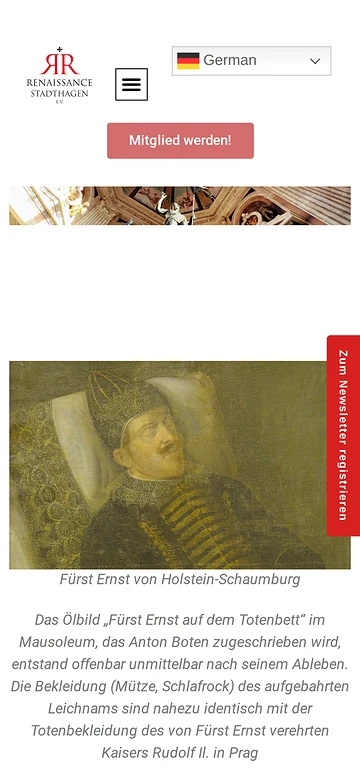
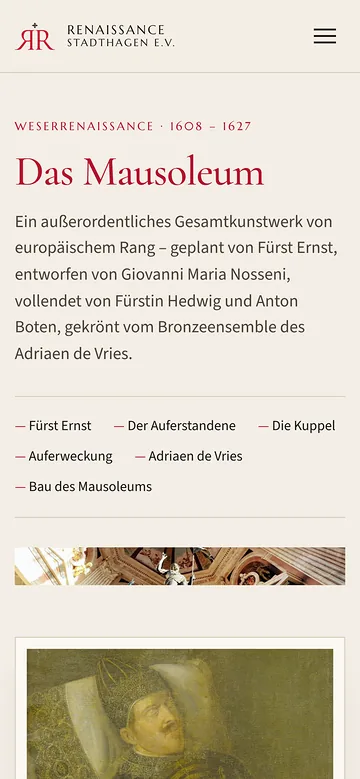
Referenz Renaissanceverein Stadthagen nach Relaunch aktualisiert

diff --git a/src/data/references.ts b/src/data/references.ts
@@ -72,6 +72,39 @@ export interface Reference {
 
 export const references: Reference[] = [
   {
+    slug: "renaissance-stadthagen",
+    category: "websites",
+    domain: "stadthagen-renaissance.de",
+    image: "/images/referenzen/renaissance-stadthagen.jpg",
+    mobileImage: "/images/referenzen/renaissance-stadthagen-mobile",
+    mobileShots: [
+      { image: "/images/referenzen/renaissance-stadthagen-mobile-konzertreihe", label: "Konzertreihe" },
+      { image: "/images/referenzen/renaissance-stadthagen-mobile-das-mausoleum", label: "Das Mausoleum" },
+    ],
+    date: "2026",
+    title: "Renaissanceverein Stadthagen",
+    meta: "Vereins-Website · Mausoleum",
+    liveUrl: "https://www.stadthagen-renaissance.de",
+    featured: true,
+    story: {
+      challenge:
+        "Der Renaissance Stadthagen e.V. betreut das Mausoleum an der St.-Martini-Kirche mit dem Bronzeensemble von Adriaen de Vries. Dazu organisiert er Führungen, eine Konzertreihe und einen offenen Stammtisch. Die bisherige Website war über die Jahre gewachsen, aufwendig zu pflegen und abzusichern. Auch ihr Erscheinungsbild passte nicht mehr zu einem Kunstwerk von europäischem Rang.",
+      solution:
+        "Für den Neustart haben wir ein ruhiges, museales Design entwickelt: heller Papierton, das Rot aus dem Vereinslogo und eine klassische Schrift, die zur Renaissance passt. Ganz oben auf der Startseite steht, was Besucher zuerst wissen wollen: Öffnungszeiten, Sonderöffnungstage, Eintritt und Treffpunkt. Abgelaufene Termine verschwinden von selbst. Die Seiten zum Mausoleum und zu Adriaen de Vries führen Kapitel für Kapitel durch Geschichte und Kunstwerk. Auf der Seite zur Konzertreihe stehen Programm und Kartenverkauf; der Ticketshop lädt erst, wenn man ihn öffnet. Der Mitgliedsantrag läuft direkt online, mit Prüfung der Bankverbindung und automatischer Eingangsbestätigung. Von der Startseite geht es außerdem zur Renaissance-Rallye, die wir ebenfalls gebaut haben. Die Seite kommt ohne Cookies aus und lässt sich per Klick auf Englisch, Niederländisch, Dänisch und Schwedisch lesen. Alle alten Adressen und Dokumente bleiben erreichbar.",
+      outcome:
+        "Seit Oktober 2026 ist der neue Auftritt online. Die Pflege liegt jetzt bei uns: Der Verein schickt Änderungen einfach per E-Mail.",
+      scope: [
+        "Relaunch & Webdesign",
+        "Besucherinfos mit Sonderöffnungszeiten",
+        "Konzertreihe & Tickets",
+        "Online-Mitgliedsantrag",
+        "Mehrsprachig lesbar",
+        "Umzug mit Weiterleitungen",
+      ],
+      liveUrl: "https://www.stadthagen-renaissance.de",
+    },
+  },
+  {
     slug: "kultur-stadthagen",
     category: "websites",
     domain: "kultur-stadthagen.de",
@@ -745,35 +778,6 @@ export const references: Reference[] = [
         "Kurstermine & Anfrage",
       ],
       liveUrl: "https://healthy-horizons.de",
-    },
-  },
-  {
-    slug: "renaissance-stadthagen",
-    category: "websites",
-    domain: "stadthagen-renaissance.de",
-    image: "/images/referenzen/renaissance-stadthagen.jpg",
-    mobileImage: "/images/referenzen/renaissance-stadthagen-mobile",
-    mobileShots: [
-      { image: "/images/referenzen/renaissance-stadthagen-mobile-konzertreihe", label: "Konzertreihe" },
-      { image: "/images/referenzen/renaissance-stadthagen-mobile-das-mausoleum", label: "Das Mausoleum" },
-    ],
-    date: "2025",
-    title: "Renaissanceverein Stadthagen",
-    meta: "Vereins-Website",
-    liveUrl: "https://www.stadthagen-renaissance.de",
-    featured: true,
-    story: {
-      challenge:
-        "Der Renaissance Stadthagen e.V. kümmert sich um das Mausoleum von Fürst Ernst und organisiert Führungen, eine Konzertreihe und einen offenen Stammtisch. Besucher interessiert vor allem, wann geöffnet ist, was eine Führung kostet und wann das nächste Konzert stattfindet. Der Verein selbst möchte zugleich neue Mitglieder und junge Unterstützer gewinnen.",
-      solution:
-        "Ganz oben auf der Startseite stehen Öffnungszeiten, geänderte Termine, Eintrittspreise und Ansprechpartner, also das, wonach Besucher zuerst suchen. Darunter folgen das nächste Konzert, die Stammtisch-Termine und Neuigkeiten aus dem Verein. Alle Konzerte des Jahres sind auf einer eigenen Seite mit eingebundenem Ticketverkauf versammelt. Außerdem startet hier die Renaissance-Rallye durch Stadthagen, und das Mitgliedsformular liegt direkt im Menü.",
-      scope: [
-        "Webdesign",
-        "Vereins-Website",
-        "Veranstaltungen & Tickets",
-        "Mitgliedsformular",
-      ],
-      liveUrl: "https://www.stadthagen-renaissance.de",
     },
   },
   {

diff --git a/src/data/cities.ts b/src/data/cities.ts
@@ -152,6 +152,15 @@ export const cities: City[] = [
           "Neuer Auftritt für die Konzertreihe im Stadthagener Schloss: Saisonprogramm, Kartenreservierung und ein Konzertarchiv seit 2009.",
       },
       {
+        url: "stadthagen-renaissance.de",
+        image: "/images/referenzen/renaissance-stadthagen.jpg",
+        href: "/referenzen/renaissance-stadthagen/",
+        tag: "Vereins-Website · Stadthagen",
+        title: "Renaissanceverein Stadthagen",
+        description:
+          "Relaunch für den Verein, der das Mausoleum Stadthagen betreut: Öffnungszeiten, Führungen und Konzerte auf einen Blick, Mitgliedsantrag online.",
+      },
+      {
         url: "entdecke-stadthagen.de",
         image: "/images/referenzen/entdecke-stadthagen.jpg",
         href: "/referenzen/entdecke-stadthagen/",
@@ -168,15 +177,6 @@ export const cities: City[] = [
         title: "Events Stadthagen",
         description:
           "Unser eigener Veranstaltungskalender für Stadthagen: Konzerte, Märkte und Feste der Stadt an einem Ort, täglich automatisch aktualisiert.",
-      },
-      {
-        url: "stadthagen-renaissance.de",
-        image: "/images/referenzen/renaissance-stadthagen.jpg",
-        href: "/referenzen/renaissance-stadthagen/",
-        tag: "Vereins-Website · Stadthagen",
-        title: "Renaissanceverein Stadthagen",
-        description:
-          "Webdesign und Wartung für den Verein, der die Renaissance-Geschichte Stadthagens lebendig hält.",
       },
       {
         url: "tattoo-studio-stadthagen.de",
